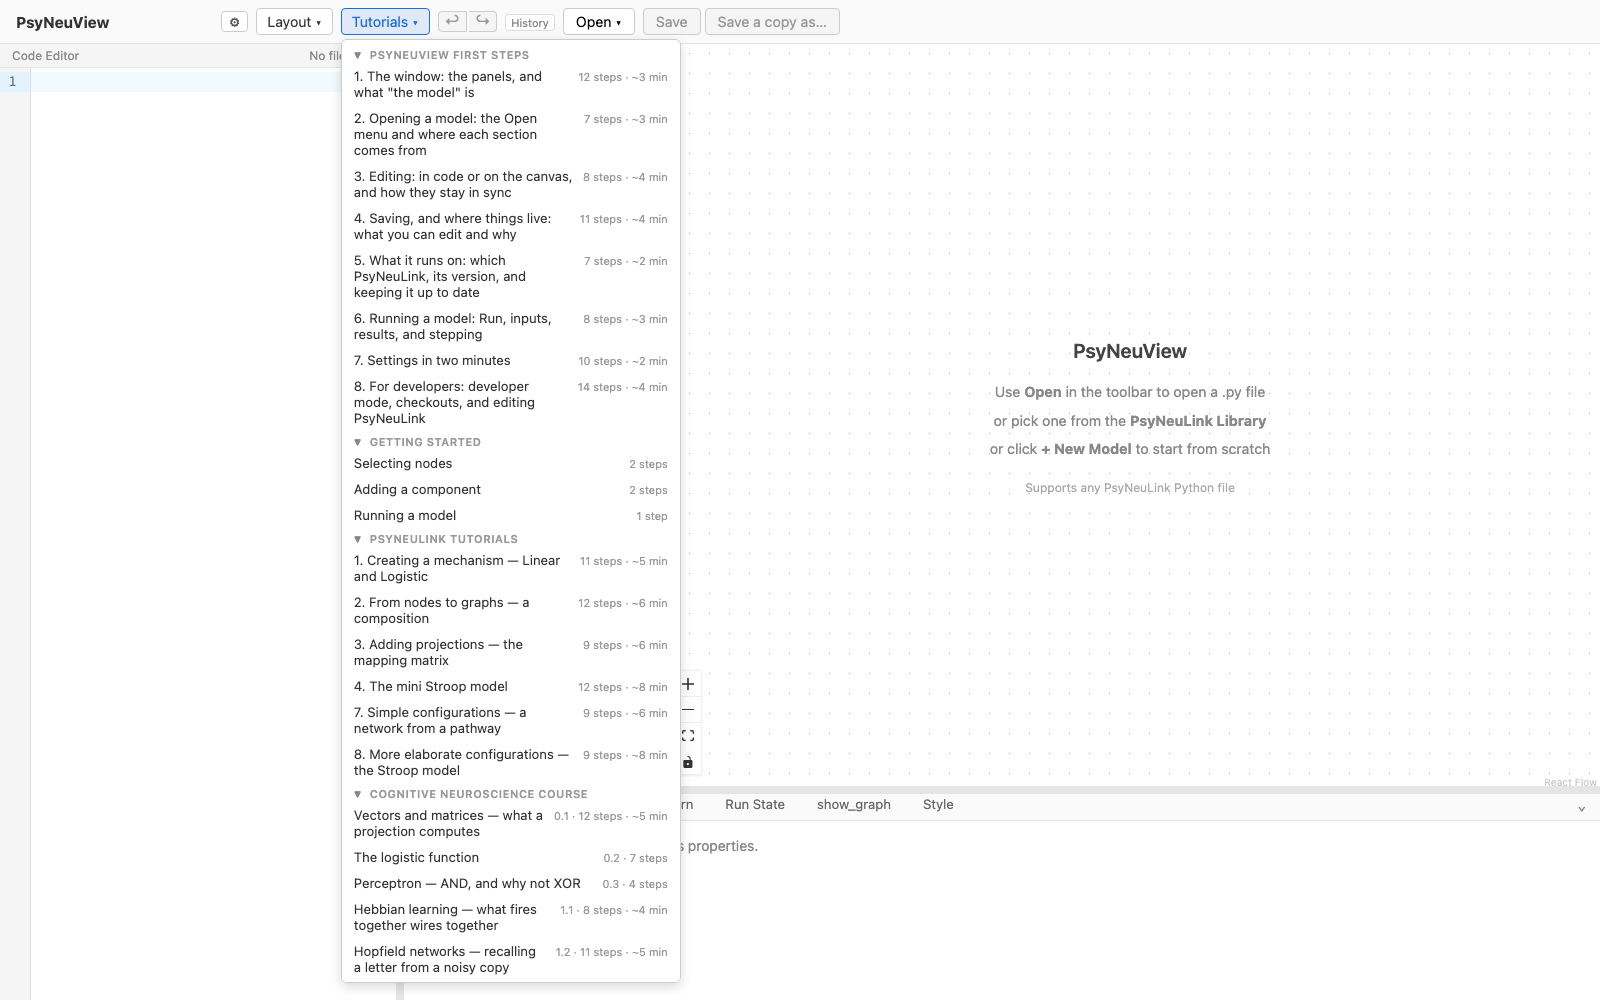
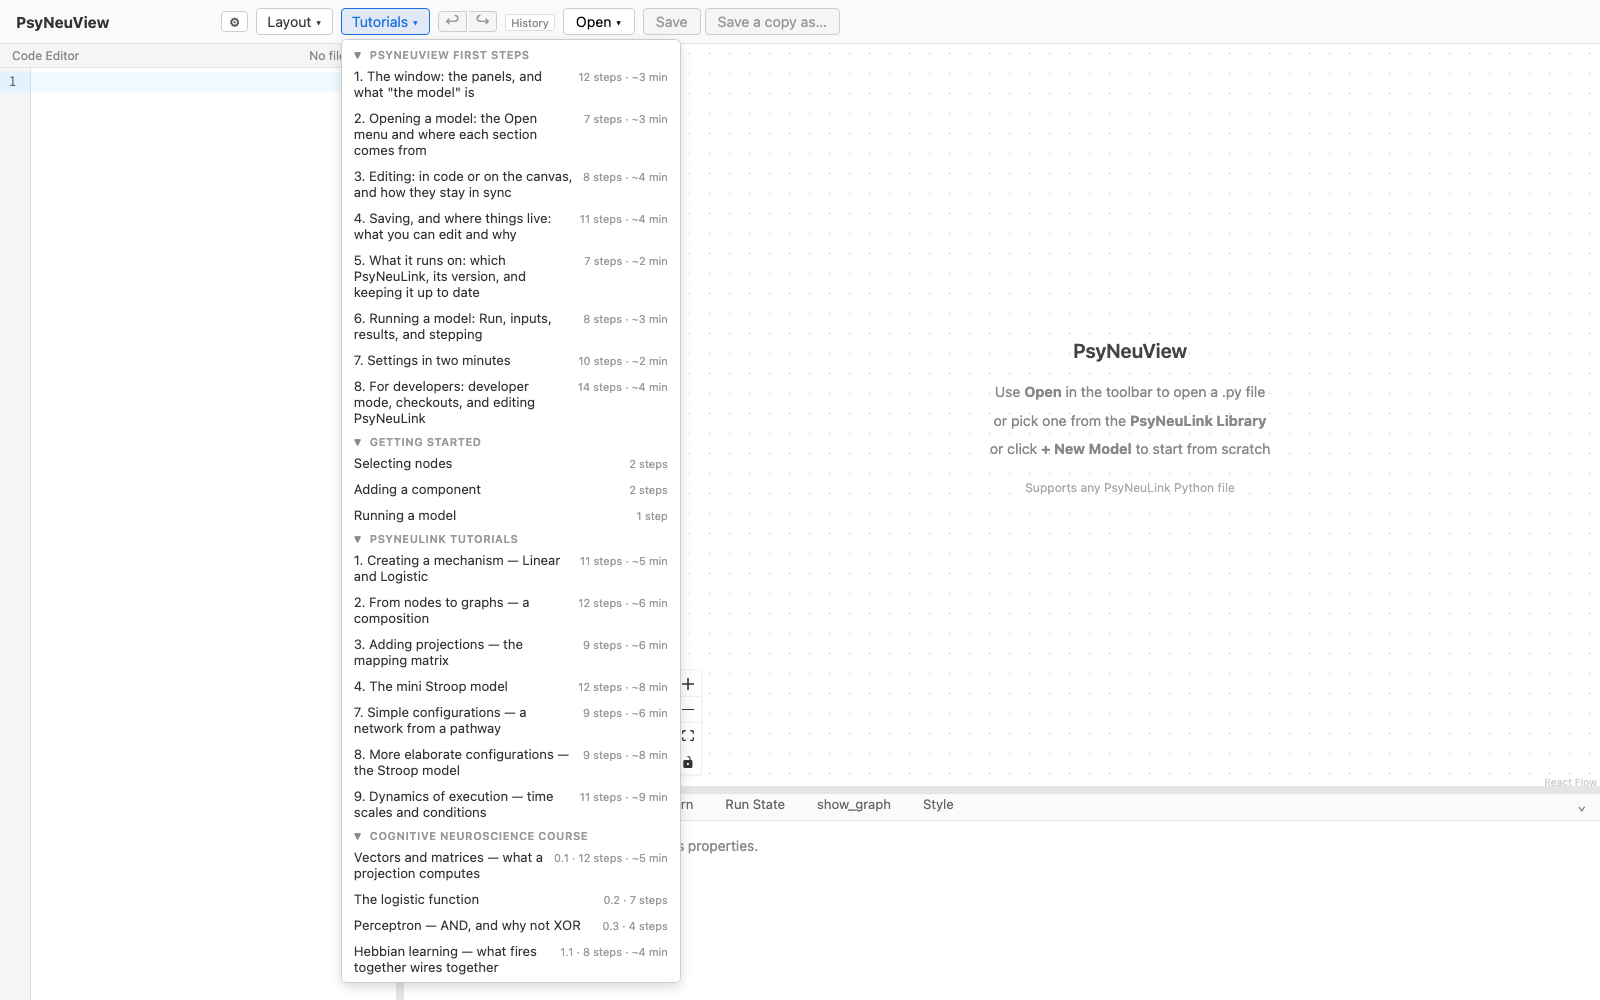
Docs: lesson 9 in the PsyNeuLink Tutorials page; the menu shows it (#9)
Refs #9

Changed region(s): [[0.2188, 0.775, 0.4375, 0.992]]

diff --git a/docs/tutorials/17-psyneulink-tutorials.md b/docs/tutorials/17-psyneulink-tutorials.md
@@ -41,14 +41,14 @@ rows with a `?tour=` are built.
 | 6 | Constructing compositions | Tutorial: *Constructing Compositions* | | Lines of two and three layers, a recurrent pathway, several hidden layers, and what each graph looks like |
 | 7 | Simple configurations — a network from a pathway | Primer: *Simple Configurations* | `pnl-simple-configurations` | **Open** the Simple Configurations demo, the Primer's 5-2-5 network from a pathway; click the arrow **PsyNeuLink made** (full connectivity, all 1s); **run** the Primer's input and five zeros; write a **matrix into the pathway** and run again |
 | 8 | More elaborate configurations — the Stroop model | Primer: *More Elaborate Configurations* | `pnl-elaborate-configurations` | **Open** the Elaborate Configurations demo, the Primer's Stroop model from five pathway lists; click the **color** and **word** arrows (weights 2 and 3); see how the **task** input's 4 cancels the hidden layers' bias; **run** the Primer's congruent and incongruent trials (decision times 1.41 and 2.75), then **read the word** green in red ink (1.38) |
-| 9 | Dynamics of execution | Primer: *Dynamics of Execution* | | The scheduler, conditions, and time scales |
+| 9 | Dynamics of execution — time scales and conditions | Primer: *Dynamics of Execution* | `pnl-dynamics-of-execution` | **Open** the Dynamics of Execution demo, the Stroop model with a step-by-step decision; see in the **Scheduler** that a trial ends when the decision is finished; **run** with noise (a different step count each time), then without (59 incongruent, 25 congruent); make the task an **LCAMechanism** the hidden layers **wait** 10 executions for, and watch the word win (−20 in 57) |
 | 10 | Control | Primer: *Control* | | A `ControlMechanism` and what it modulates |
 | 11 | Parameters | Primer: *Parameters* (accessing, setting, function and modulable parameters) | | Reading and changing parameters, in the Inspector and in code |
 | 12 | Displaying and logging values | Primer: *Displaying and Logging Values* | | Reports and logs, and the app's run results and trace |
 | 13 | Learning | Primer: *Learning*, *LearningMechanisms* | | A learning pathway and backpropagation |
 | 14 | Customization | Primer: *Customization* | | A user-defined function |
 
-Lessons 5, 6 and 9–14 are listed so the order is settled; they are not built
+Lessons 5, 6 and 10–14 are listed so the order is settled; they are not built
 yet, so lesson 7 follows lesson 4 in the menu for now. The
 notebook's own ending, *Constructing Compositions*, says "more content is
 being added weekly", so the list may grow with it.
@@ -314,6 +314,47 @@ canvas; the script's `termination_processing` and `animate` arguments to
 `run`; and the fuller Stroop model in the PsyNeuLink Library. What runs when,
 within a trial, is the Primer's *Dynamics of Execution*, lesson 9.
 
+### 9. Dynamics of execution — time scales and conditions
+
+Basics and Primer, *Dynamics of Execution*. Validated against PsyNeuLink
+0.20.2.0.
+
+The demo, **Dynamics of Execution**, is lesson 8's Stroop model with the
+decision changed as the Primer changes it: a `DriftDiffusionIntegrator`
+(noise 0.5, threshold 20), reset at the start of each trial. Where lesson 8's
+decision was computed in one go, this one adds up the evidence a step at a
+time until it reaches **+20** (red) or **−20** (green), and reports where it
+stopped and how many steps it took; the other mechanisms each finish in one
+execution, so the model runs on two time scales. The Primer ends a trial
+with `termination_processing={TimeScale.TRIAL: WhenFinished(decision)}` in
+its call to `run`; a model file has no `run` call, so the demo sets the
+scheduler's `termination_conds`, which the **Scheduler** tab shows
+(`TimeScale.TRIAL` is now named `ENVIRONMENT_STATE_UPDATE`).
+
+The Primer's trial, `primer_trial`, is red ink with the word green, naming
+the color. With noise it reaches 20 after some tens of steps, a different
+count each run, as the Primer says. Set `noise=0.0` and the counts stay put:
+**59** steps for that incongruent trial, **25** for the congruent one (the
+word red): the Stroop effect, counted in steps.
+
+Then the Primer's scheduler example. `TASK INPUT` becomes an `LCAMechanism`,
+whose two units compete, and the hidden layers get the condition
+`EveryNCalls(task_input, 10)`: they run only after every 10 executions of
+the task, so the instruction is processed before the stimuli. (The Primer
+calls it `EveryNExecutions`, which PsyNeuLink no longer has.) The trial now
+answers **−20**, green, in **57** steps: after its 10 executions the task
+unit has settled at **0.61** for color and **0.39** for word, not 1 and 0,
+too weak an instruction to hold off the stronger word pathway. The Primer
+prints [20, 126] and [20, 42], from an older PsyNeuLink and with noise. The
+tutorial spec and `backend/tests/test_demo_dynamics_of_execution.py` assert
+the termination condition and every number above.
+
+![The task settled first: the word wins](assets/tour/pnl-dynamics-of-execution-step-10.png)
+
+**What stays in the Primer.** Waiting for the task to settle rather than for
+a fixed count, with its `converge` function and a `When` condition, and the
+list of pre-defined Conditions. The walkthrough's last step says so.
+
 ---
 
 ## What you can expect
@@ -346,8 +387,13 @@ within a trial, is the Primer's *Dynamics of Execution*, lesson 9.
       matrices the pathway lists wrote, and asserts the decision times and
       chances of red (1.41 and 0.999, 2.75 and 0.940; reading, 1.38 and
       0.001).
+- [x] Lesson 9 opens a bundled demo, the Stroop model with a
+      DriftDiffusionIntegrator (`pnl-dynamics-of-execution.tutorial.spec.ts`):
+      it reads the trial's termination condition and asserts the four runs
+      (20 after some steps, with noise; 20 in 59 and in 25 without; −20 in 57,
+      with the task at 0.61 / 0.39, once the hidden layers wait for it).
 - [x] Every step has a caption for narration.
-- [ ] **Not yet:** lessons 5, 6 and 9–14. Each will be added in order, as a walkthrough
+- [ ] **Not yet:** lessons 5, 6 and 10–14. Each will be added in order, as a walkthrough
       with a bundled demo where the model is too big to build by hand.
 
 ## Further reading
